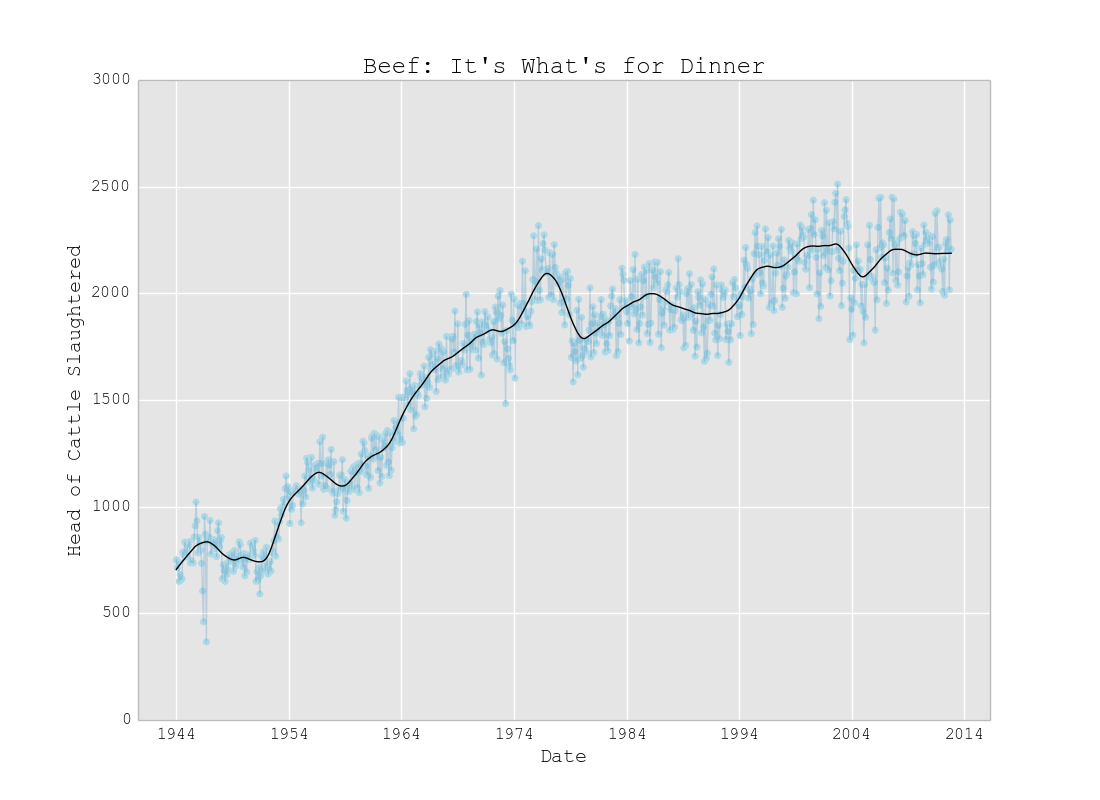
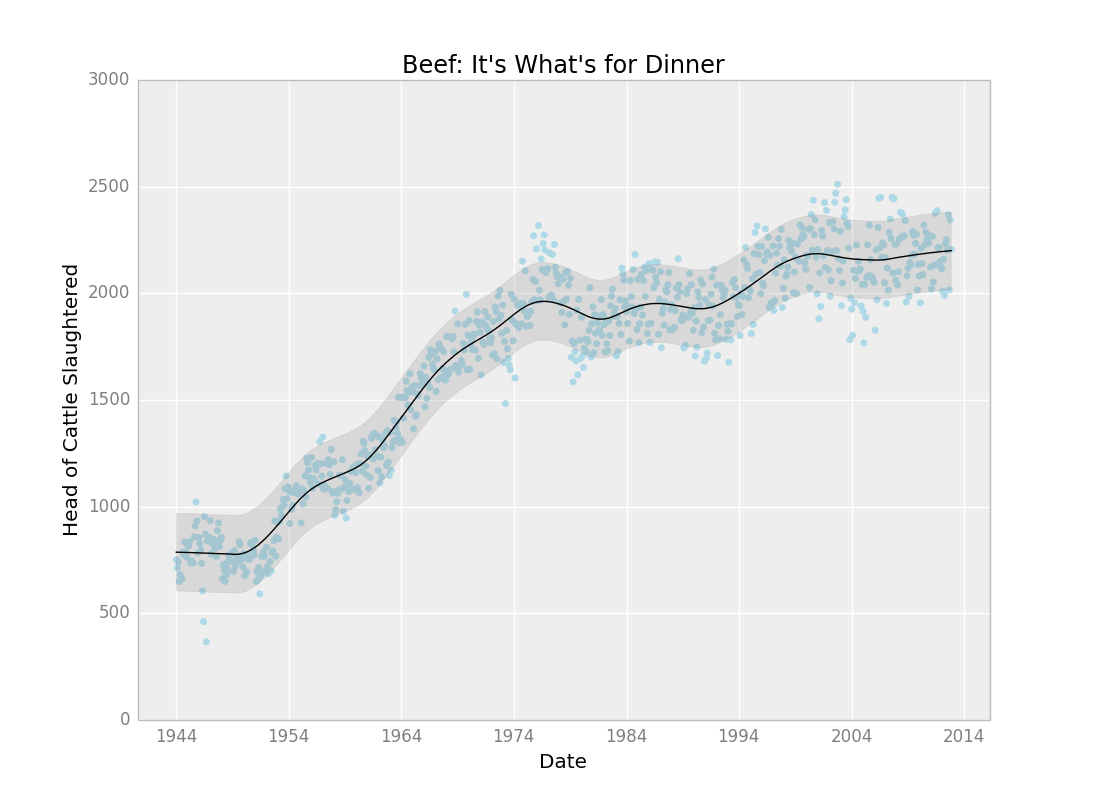
newer main image

diff --git a/README.md b/README.md
@@ -5,8 +5,7 @@ from ggplot import *
 
 ggplot(aes(x='date', y='beef'), data=meat) + \
     geom_point(color='lightblue') + \
-    geom_line(alpha=0.25) + \
-    stat_smooth(span=.05, color='black') + \
+    stat_smooth(span=.15, color='black') + \
     ggtitle("Beef: It's What's for Dinner") + \
     xlab("Date") + \
     ylab("Head of Cattle Slaughtered")
